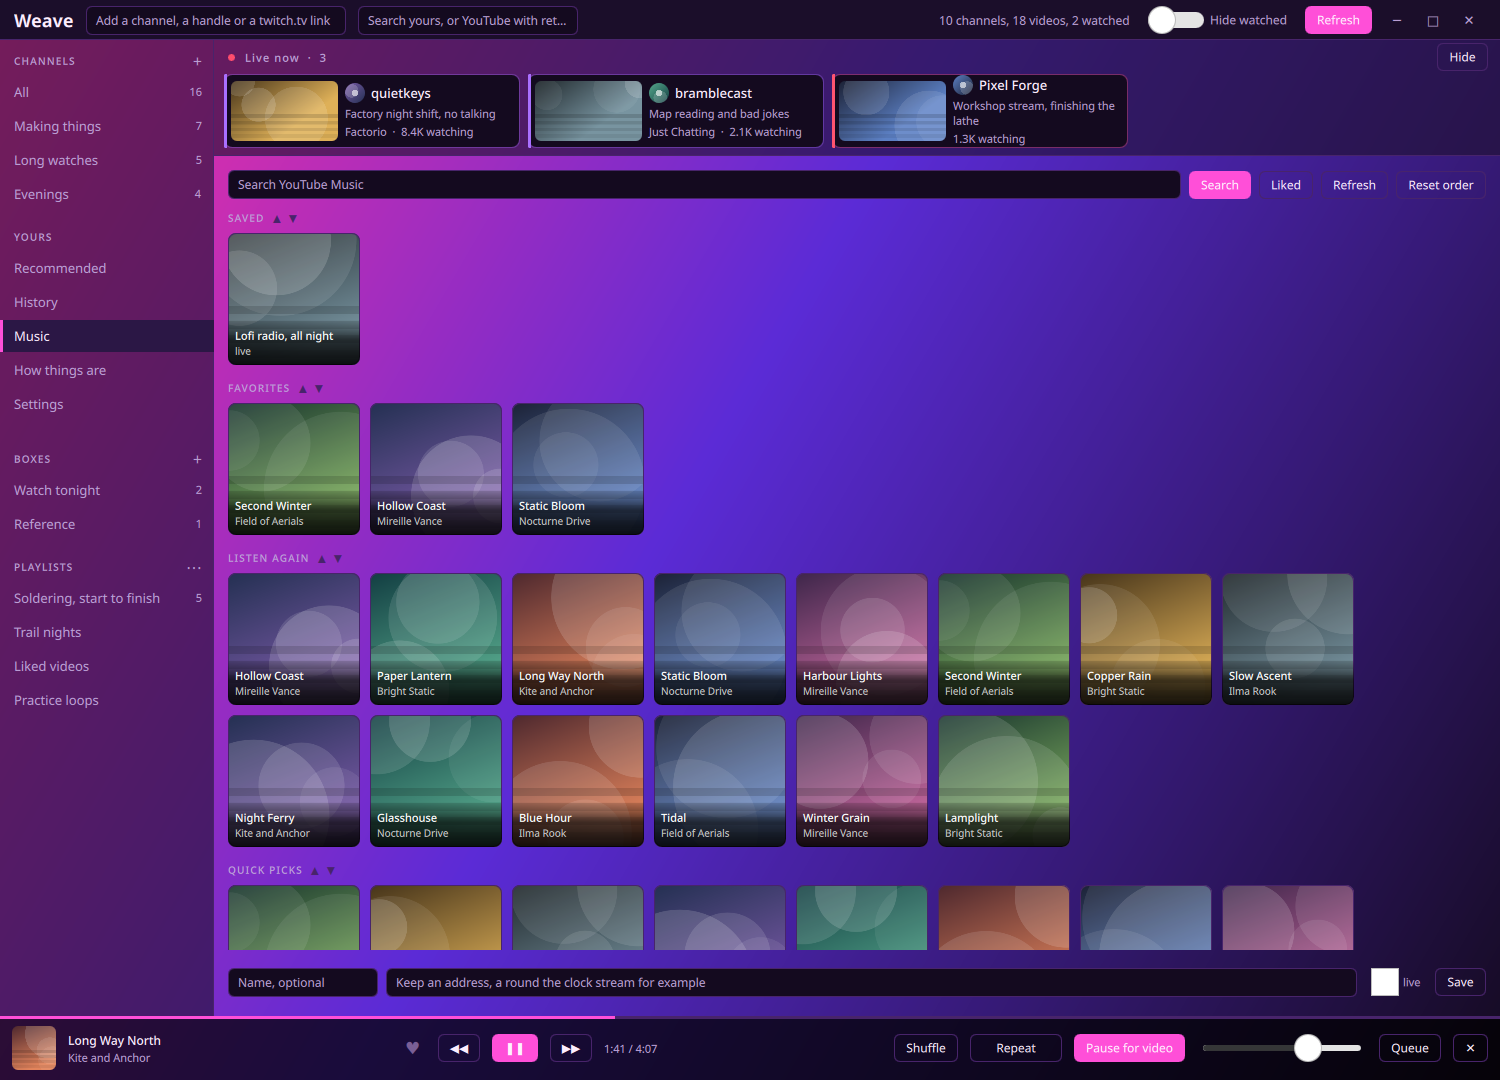
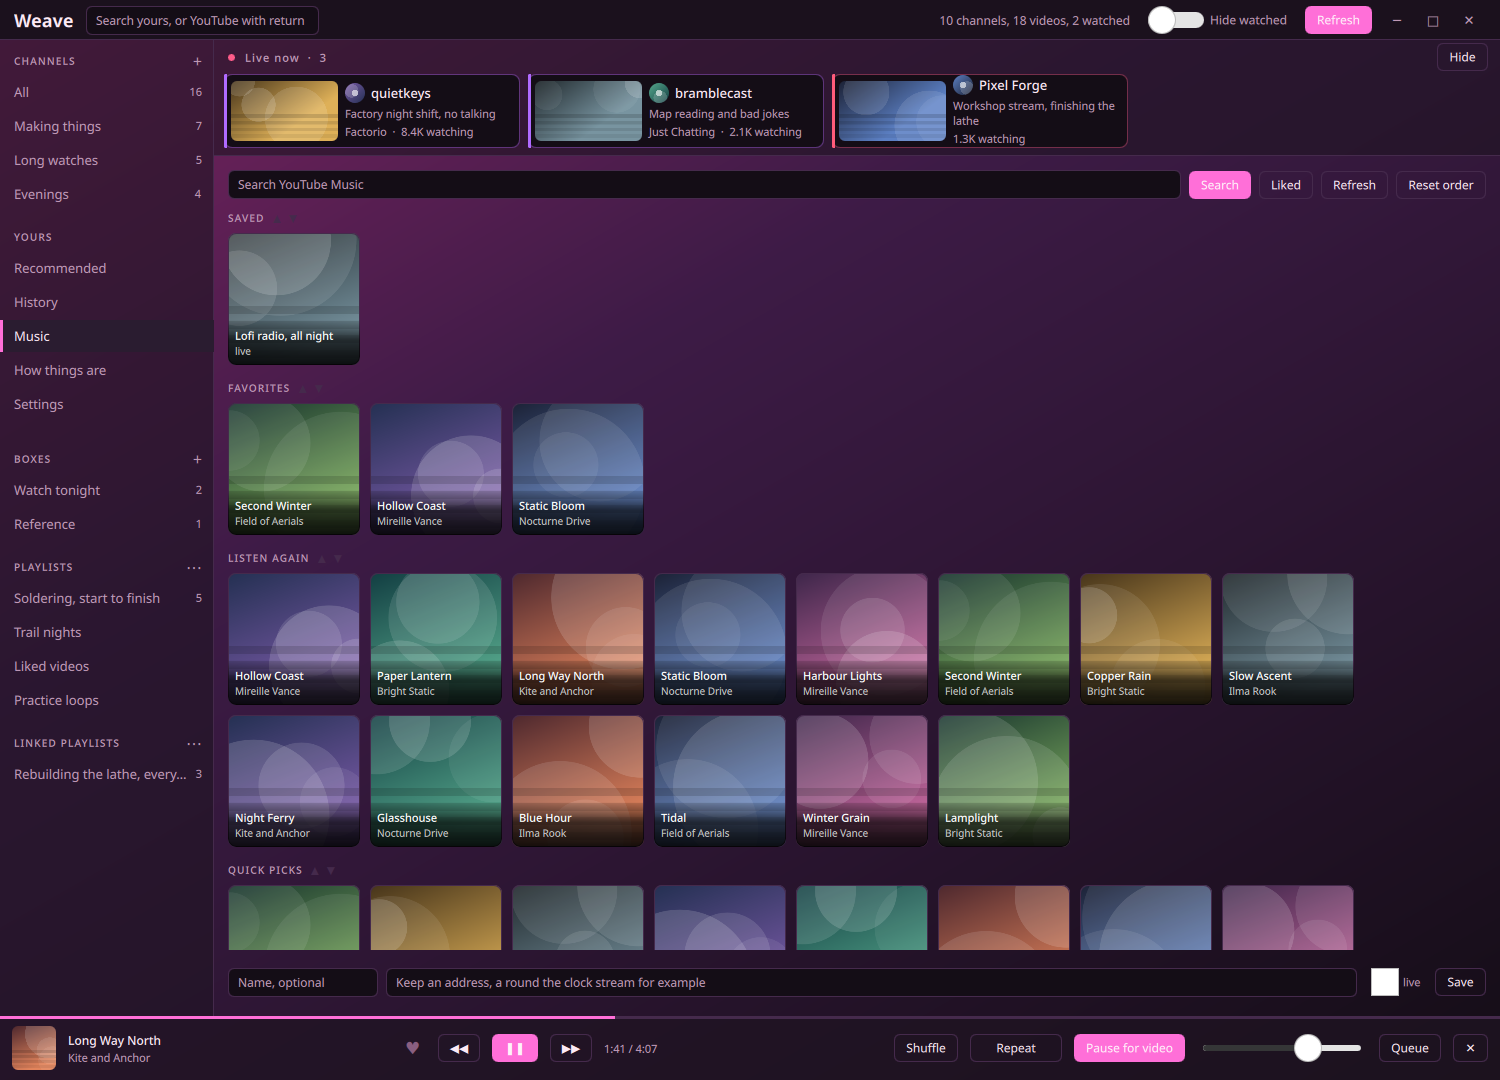
Take the screenshots again, with a different theme in each
The window in them was two versions old. The toolbar had two boxes that look
like each other, one of which is gone, the search box is sized from its own
words now, and a channel page has parts it did not have.

One new picture, the playlists a channel has made, drawn as the stacks of
videos they are. The driver seeds a listing for it the way a real one arrives,
pictures included, so the shot needs no network like the rest of them.

And no theme appears twice. The pictures are also the tour of what ships, so
the seven in the readme are seven that nothing else shows, each caption names
the one it is looking at, and every one of them is a theme that ships. A theme
somebody wrote for themselves is in nobody else's copy.

diff --git a/tools/shots.py b/tools/shots.py
@@ -319,6 +319,30 @@ def seed(theme: str, height: int = HEIGHT) -> None:
                           {"ext_id": "LL", "title": "Liked videos"},
                           {"ext_id": "PLmock000003", "title": "Practice loops"}])
     db.set_playlist_music("PLmock000003", True)
+    # What a channel's playlists tab lists, for the half of a channel page that
+    # shows them. The pictures come with that listing in reality, so they are
+    # seeded the same way here.
+    from weave.sources.playlists import Playlist
+    channel_lists = ["Rebuilding the lathe, every step",
+                     "Soldering, from the first joint",
+                     "Shop tours and what is on the bench",
+                     "Answering your questions, live",
+                     "Everything about flux",
+                     "Small repairs nobody asked for"]
+    db.replace_channel_playlists(f"yt:UCmock{0:018d}", [
+        Playlist(f"PLchannel{index:013d}", title, thumb(f"chanlist{index}", index + 71))
+        for index, title in enumerate(channel_lists)])
+    for index, title in enumerate(channel_lists):
+        db.open_channel_playlist(f"PLchannel{index:013d}", title)
+        db.replace_playlist_items(f"PLchannel{index:013d}", [{
+            "ext_id": f"mockchan{index}{item:02d}", "title": f"Part {item + 1}",
+            "channel_name": CHANNELS[0][0], "channel_ext_id": f"UCmock{0:018d}",
+            "duration_s": 600 + item * 120,
+            "thumbnail_url": thumb(f"chanitem{index}{item}", index * 7 + item),
+            "views": 12_000 + item * 900, "published_at": NOW - (item + 2) * DAY,
+        } for item in range(3 + index * 2)])
+    db.keep_playlist(f"PLchannel{0:013d}")
+
     db.replace_playlist_items("PLmock000001", [{
         "ext_id": f"mocklist{index:03d}", "title": title,
         "channel_name": CHANNELS[index % len(CHANNELS)][0],
@@ -529,6 +553,14 @@ def shot_channel(bridge, _window) -> None:
     settle(2.0)
 
 
+def shot_playlists(bridge, _window) -> None:
+    """The other half of a channel page, the playlists it has made."""
+    bridge.openChannel(f"yt:UCmock{0:018d}")
+    settle(1.2)
+    bridge.showChannelTab("playlists")
+    settle(2.0)
+
+
 def shot_playlist(bridge, window) -> None:
     bridge.selectPlaylist("PLmock000001")
     settle(1.4)
@@ -596,16 +628,22 @@ def shot_themes(bridge, window) -> None:
 # how tall the window is. A section of the music page is two rows deep, and a
 # row laid out below the fold is never given its pictures, so that one is
 # taken in a taller window rather than by scrolling to it.
+# A different theme in every picture, and none of them twice, because the
+# pictures are also the tour of what ships. Fourteen ship and seven are in the
+# readme, so the ones in it are seven that nothing else shows. Only ones that
+# ship: a theme somebody wrote for themselves is not in anybody else's copy,
+# and the shot would come out in whatever the fallback is.
 SHOTS = {
-    "feed": ("Weave Dark", shot_feed, HEIGHT),
-    "panel": ("Violet Glow", shot_panel, HEIGHT),
-    "music": ("Nitro Pop", shot_music, 1080),
-    "channel": ("Deep Sea", shot_channel, HEIGHT),
-    "playlist": ("Paper", shot_playlist, HEIGHT),
-    "suggestions": ("Aurora", shot_suggestions, HEIGHT),
-    "search": ("Ultraviolet", shot_search, HEIGHT),
-    "history": ("Linen", shot_history, HEIGHT),
-    "themes": ("Sunset Drive", shot_themes, 1080),
+    "feed": ("Aurora", shot_feed, HEIGHT),
+    "panel": ("Ultraviolet", shot_panel, HEIGHT),
+    "music": ("Bloom", shot_music, 1080),
+    "channel": ("Sunset Drive", shot_channel, HEIGHT),
+    "playlists": ("Mint Fade", shot_playlists, HEIGHT),
+    "playlist": ("Linen", shot_playlist, HEIGHT),
+    "suggestions": ("Deep Sea", shot_suggestions, HEIGHT),
+    "search": ("Violet Glow", shot_search, HEIGHT),
+    "history": ("Paper Dark", shot_history, HEIGHT),
+    "themes": ("Frost", shot_themes, 1080),
 }
 
 

diff --git a/README.md b/README.md
@@ -12,7 +12,7 @@ SQLite file in your own home directory, and it never writes to your account.
 
 ![The feed, with the live bar across the top](docs/shots/feed.png)
 
-*The feed in the Weave Dark theme. Groups and boxes down the left, whoever is
+*The feed in Aurora. Groups and boxes down the left, whoever is
 streaming along the top, and a line under a card showing where you stopped.*
 
 ## What it does
@@ -41,13 +41,18 @@ streaming along the top, and a line under a card showing where you stopped.*
   listening it remembers, and media keys through MPRIS
 * Themes are files, fourteen come with it, and there is an editor with a colour
   wheel that derives a whole palette from two dots
+* A channel page in three parts, the videos, the streams it has made and the
+  playlists, and a playlist you keep sits in the sidebar under your own
+* A report written to one file from the How things are page, holding the checks,
+  the versions, the counts and every request of the last day, and no channel
+  names, no titles and nothing secret
 * Its own window frame, mouse back and forward buttons, and a remembered shape
 
 ## What is playing
 
 ![The detail panel beside the feed](docs/shots/panel.png)
 
-*Violet Glow. The panel mirrors `mpv` rather than the grid, so it follows an
+*Ultraviolet. The panel mirrors `mpv` rather than the grid, so it follows an
 `mpv` side track change too. Views and likes are already stored and appear at
 once, while the dislike estimate and the comments are fetched only for a video
 somebody is actually looking at.*
@@ -61,15 +66,34 @@ watching and how long it has been going.
 
 ![A channel page with its banner](docs/shots/channel.png)
 
-*Deep Sea. Clicking a channel name opens everything stored from it, watched ones
-dimmed rather than hidden, since asking for a channel means asking for all of
-it.*
+*Sunset Drive. Clicking a channel name opens everything stored from it, watched
+ones dimmed rather than hidden, since asking for a channel means asking for all
+of it.*
+
+A channel that streams gets a half of its own for the recordings. The videos
+tab and the streams tab are separate lists at the source, so past streams used
+to appear nowhere, and a recording is badged as one wherever it turns up, since
+three hours of somebody sitting down for an evening is not a video and the
+length alone never said so.
+
+## The playlists a channel has made
+
+![A channel's playlists, drawn as stacks of videos](docs/shots/playlists.png)
+
+*Mint Fade. A playlist is drawn as the stack of videos it is. The pictures come
+with the listing, so a page of them costs the one request that read the tab
+rather than a request each.*
+
+Opening one reads it, which is also where its count comes from, because the
+listing carries names and pictures and no count at all. Keeping a playlist puts
+it in a section of its own in the sidebar, apart from yours, since it belongs to
+somebody else and no reading of your own playlists knows anything about it.
 
 ## Music
 
 ![The music area with the player bar](docs/shots/music.png)
 
-*Nitro Pop. The shelves YouTube Music itself opens on, favourites, saved
+*Bloom. The shelves YouTube Music itself opens on, favourites, saved
 addresses for a round the clock stream, and a bar that survives switching views.*
 
 Nothing is downloaded. `yt-dlp` resolves an address and a second `mpv` with no
@@ -86,7 +110,7 @@ three settings rather than two, off, the whole queue, and the one track.
 
 ![A playlist, with the count of entries that are gone](docs/shots/playlist.png)
 
-*Paper, one of the four light themes. A playlist keeps the order somebody gave
+*Linen, one of the four light ones. A playlist keeps the order somebody gave
 it, and entries that have gone private are counted at the foot of the list
 rather than quietly making it shorter.*
 
@@ -101,8 +125,8 @@ one of its videos goes to the player bar instead.
 
 ![The settings page with the theme editor](docs/shots/themes.png)
 
-*Sunset Drive. Every theme in the list is a file in the same format as one you
-write, and the window repaints as you save it.*
+*Frost, another of them. Every theme in the list is a file in the same format
+as one you write, and the window repaints as you save it.*
 
 Move two or three dots on the wheel and all sixteen colour roles follow, with
 text moved until it clears a contrast ratio, in whichever direction reaches
